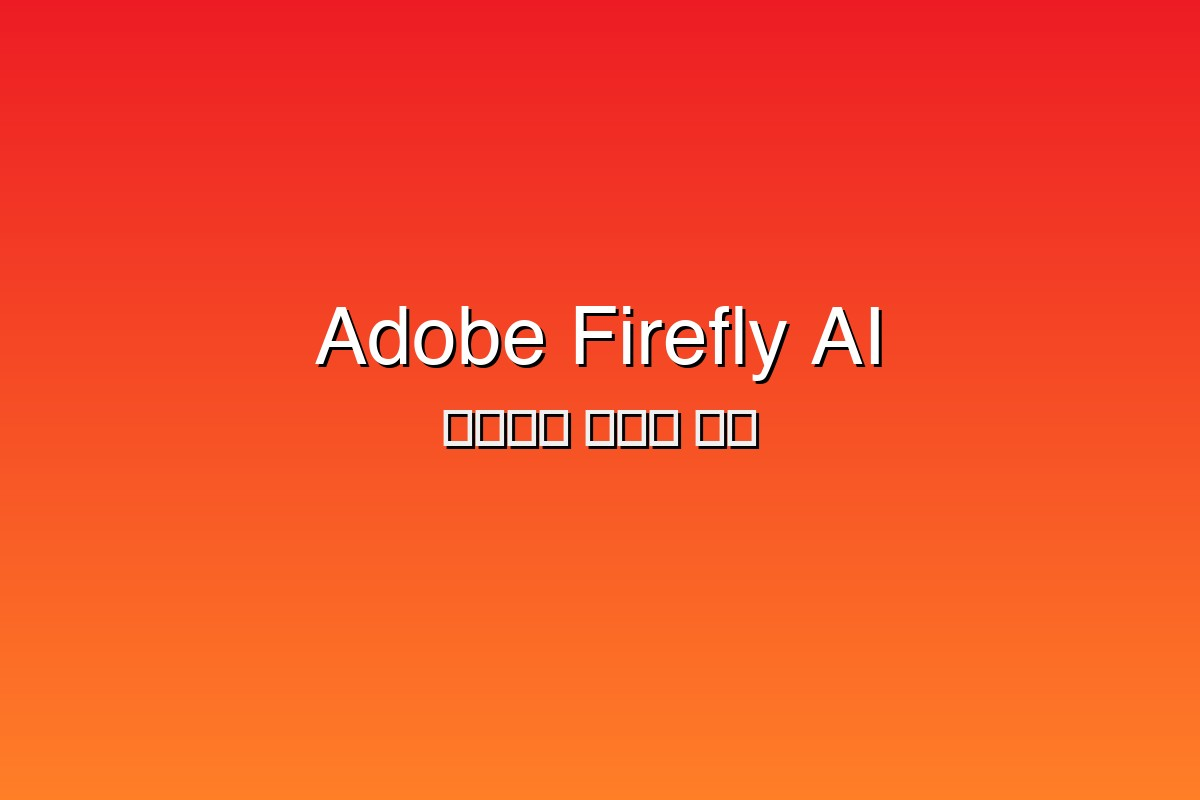
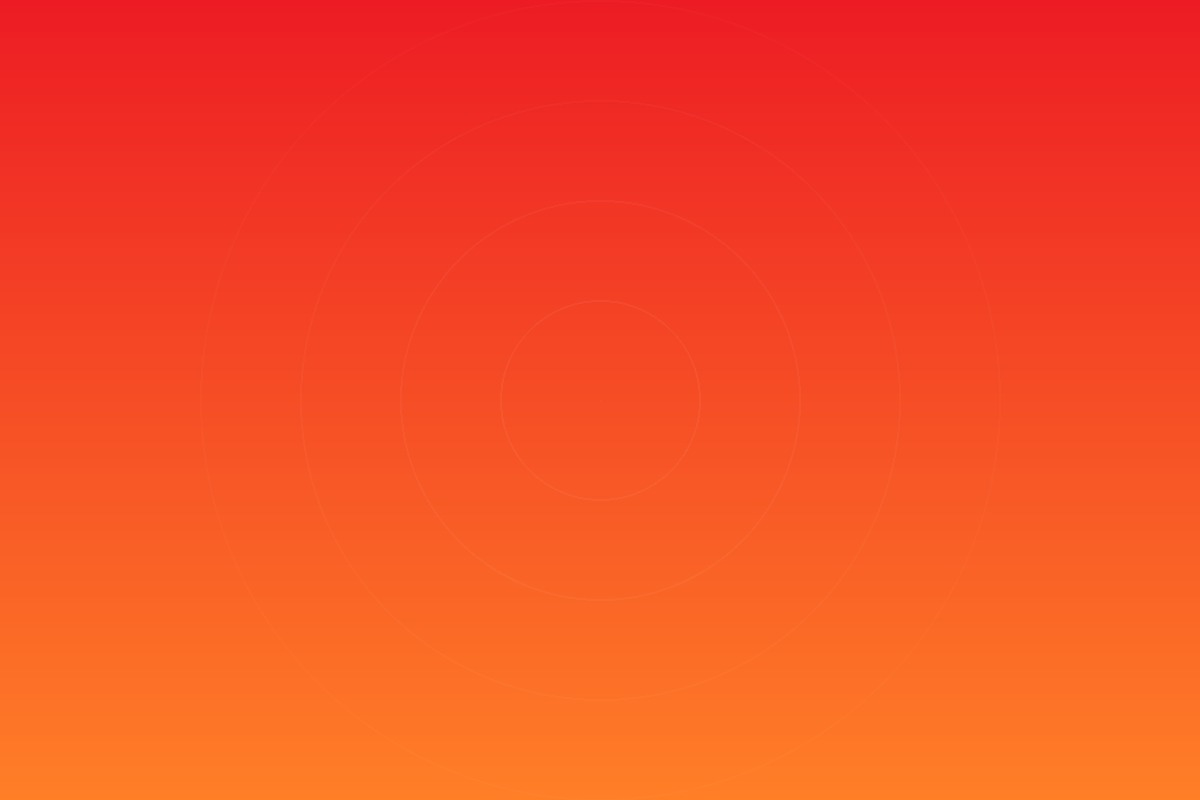
Generate clean gradient images without text
✨ Changes:
- Removed all text overlays from images
- Pure gradient backgrounds with subtle circular pattern overlay
- Company-branded color schemes maintained:
  • AAPL: Black gradient
  • ADBE: Red-orange gradient
  • AMZN: Dark to orange gradient
  • GOOGL: Blue-red, green-yellow gradients
  • META: Blue gradient
  • MSFT: Blue gradient
  • NFLX: Red gradient
  • NVDA: Green gradient
  • TSLA: Red gradient
  • UBER: Black, green gradients

🎨 Visual improvements:
- Clean, professional appearance
- No text clutter
- Subtle depth with circular overlay pattern
- Focus on color branding only
- Better integration with article text

Changed region(s): [[0.2467, 0.375, 0.74, 0.5625]]

diff --git a/scripts/generate_placeholder_images.py b/scripts/generate_placeholder_images.py
@@ -156,48 +156,31 @@ def create_gradient_image(width, height, color1, color2):
     return base
 
 
-def add_text_to_image(img, title, subtitle):
-    """Add centered text to image"""
-    draw = ImageDraw.Draw(img)
+def add_overlay_pattern(img):
+    """Add subtle overlay pattern to image (no text)"""
     width, height = img.size
 
-    # Try to use a nice font, fall back to default if not available
-    try:
-        title_font = ImageFont.truetype("/System/Library/Fonts/Helvetica.ttc", 80)
-        subtitle_font = ImageFont.truetype("/System/Library/Fonts/Helvetica.ttc", 50)
-    except:
-        # Fallback to default font
-        title_font = ImageFont.load_default()
-        subtitle_font = ImageFont.load_default()
+    # Create a subtle radial gradient overlay for visual interest
+    overlay = Image.new('RGBA', (width, height), (255, 255, 255, 0))
+    draw = ImageDraw.Draw(overlay)
 
-    # Calculate text positions for centering
-    # Title
-    title_bbox = draw.textbbox((0, 0), title, font=title_font)
-    title_width = title_bbox[2] - title_bbox[0]
-    title_height = title_bbox[3] - title_bbox[1]
-    title_x = (width - title_width) // 2
-    title_y = (height - title_height) // 2 - 60
+    # Add subtle circular pattern in center for depth
+    center_x, center_y = width // 2, height // 2
+    max_radius = min(width, height) // 2
 
-    # Subtitle
-    subtitle_bbox = draw.textbbox((0, 0), subtitle, font=subtitle_font)
-    subtitle_width = subtitle_bbox[2] - subtitle_bbox[0]
-    subtitle_height = subtitle_bbox[3] - subtitle_bbox[1]
-    subtitle_x = (width - subtitle_width) // 2
-    subtitle_y = title_y + title_height + 30
+    for i in range(5):
+        radius = max_radius - (i * 100)
+        alpha = 5 + (i * 2)  # Very subtle
+        draw.ellipse(
+            [center_x - radius, center_y - radius, center_x + radius, center_y + radius],
+            fill=None,
+            outline=(255, 255, 255, alpha),
+            width=2
+        )
 
-    # Draw text with shadow for better visibility
-    shadow_offset = 3
-    # Title shadow
-    draw.text((title_x + shadow_offset, title_y + shadow_offset), title, font=title_font, fill=(0, 0, 0, 128))
-    # Title
-    draw.text((title_x, title_y), title, font=title_font, fill=(255, 255, 255))
-
-    # Subtitle shadow
-    draw.text((subtitle_x + shadow_offset, subtitle_y + shadow_offset), subtitle, font=subtitle_font, fill=(0, 0, 0, 128))
-    # Subtitle
-    draw.text((subtitle_x, subtitle_y), subtitle, font=subtitle_font, fill=(240, 240, 240))
-
-    return img
+    # Blend overlay with original image
+    img = Image.alpha_composite(img.convert('RGBA'), overlay)
+    return img.convert('RGB')
 
 
 def generate_all_images(output_dir):
@@ -215,18 +198,17 @@ def generate_all_images(output_dir):
     for filename, config in IMAGE_CONFIGS.items():
         try:
             print(f"\n📸 Creating: {filename}")
-            print(f"   Title: {config['title']}")
-            print(f"   Subtitle: {config['subtitle']}")
+            print(f"   Colors: {config['gradient']}")
 
             # Create gradient background
             img = create_gradient_image(1200, 800, config['gradient'][0], config['gradient'][1])
 
-            # Add text overlay
-            img = add_text_to_image(img, config['title'], config['subtitle'])
+            # Add subtle overlay pattern (no text)
+            img = add_overlay_pattern(img)
 
             # Save image
             filepath = output_dir / filename
-            img.save(filepath, 'JPEG', quality=90)
+            img.save(filepath, 'JPEG', quality=92)
 
             print(f"   ✓ Saved: {filepath}")
             success += 1
